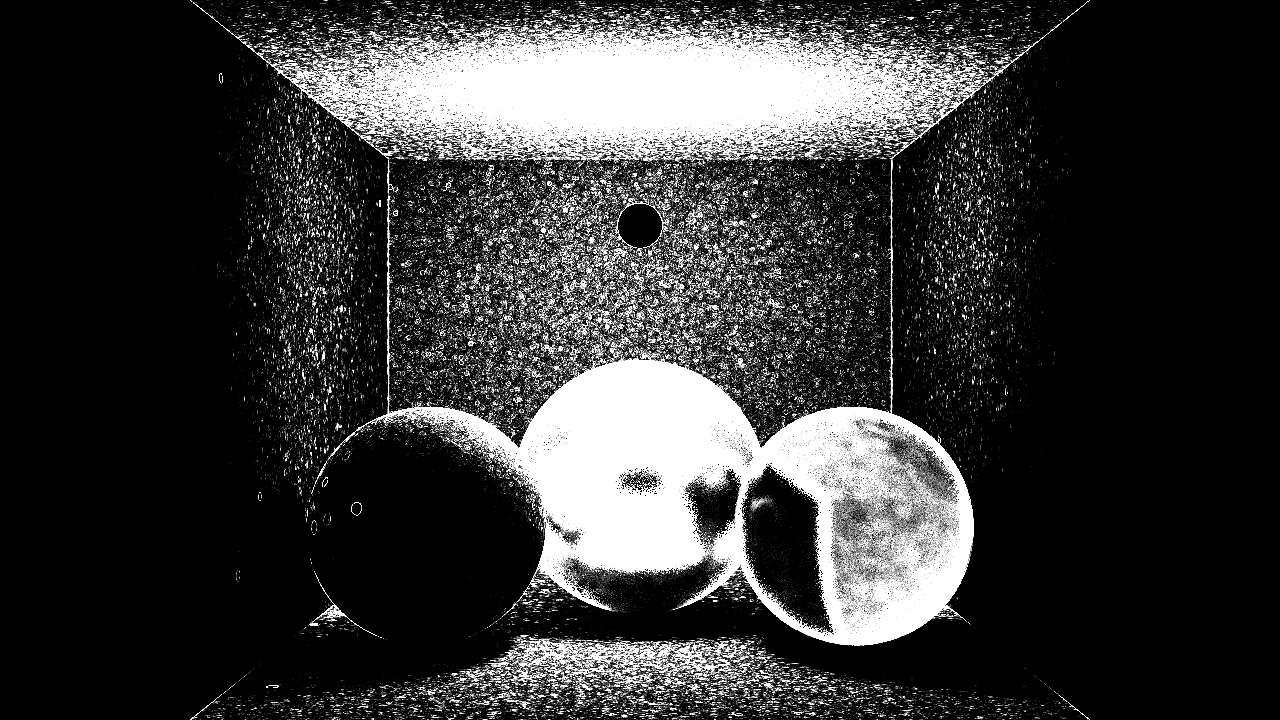
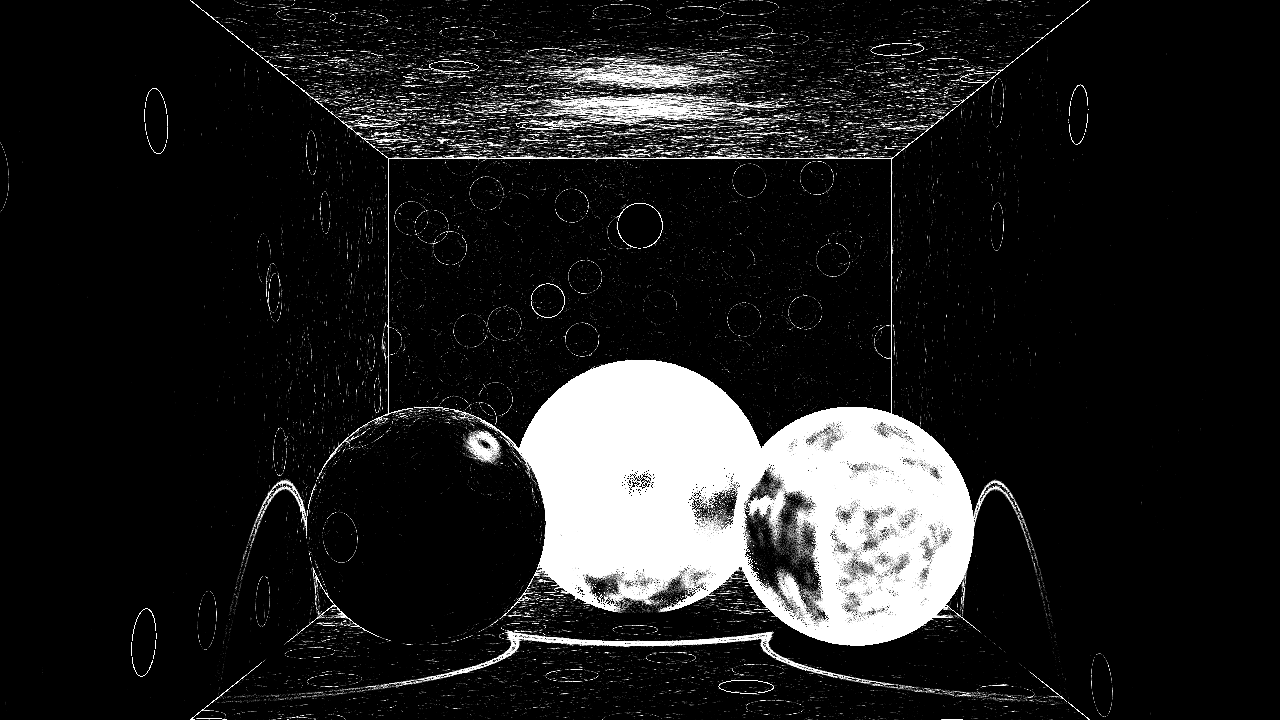
Apparently I added indirect illumination. Looks weird

Changed region(s): [[0.1562, 0.0, 0.8438, 1.0], [0.2188, 0.825, 0.2812, 0.9167]]

diff --git a/src/main.cpp b/src/main.cpp
@@ -263,7 +263,7 @@ int main()
 {
     renderer.LoadScene("../assets/scene.xml");
     PhotonMap photonMap{};
-    photonMap.Resize(10000);
+    photonMap.Resize(100000);
     renderer.SetPhotonMap(&photonMap);
 
     tileThreads::numTilesX = (renderer.GetCamera().imgWidth + tileThreads::tileSize - 1) / tileThreads::tileSize;
@@ -355,6 +355,55 @@ int main()
                         break;
                     }
                 }
+
+                photonRay.dir = newDir;
+                photonRay.p = hInfo.p;
+                c *= info.mult / info.prob;
+            }
+        }
+    }
+    else if (doingIndirectWithPhotonMapping)
+    {
+        const Light* light{ renderer.GetScene().lights[0] };
+        bool mapIsFull{ false };
+
+        while (!mapIsFull)
+        {
+            Ray photonRay;
+            Color c;
+            light->RandomPhoton(tileThreads::rng, photonRay, c);
+
+            bool firstHit{ true };
+
+            while (true)
+            {
+                photonRay.p += photonRay.dir * 0.0002f;
+                HitInfo hInfo{};
+                if (!renderer.TraceRay(photonRay, hInfo) || hInfo.light)
+                    break;
+
+                SamplerInfo sInfo{ tileThreads::rng };
+                sInfo.SetHit(photonRay, hInfo);
+
+                const Material* material{ hInfo.node->GetMaterial() };
+
+                DirSampler::Info info{};
+                Vec3f newDir{};
+                if (!material->GenerateSample(sInfo, newDir, info))
+                    break;
+
+                if (info.lobe == DirSampler::Lobe::DIFFUSE)
+                {
+                    if (!firstHit)
+                    {
+                        if (!photonMap.AddPhoton(hInfo.p, photonRay.dir, c))
+                        {
+                            mapIsFull = true;
+                            break;
+                        }
+                    }
+                }
+                firstHit = false;
 
                 photonRay.dir = newDir;
                 photonRay.p = hInfo.p;

diff --git a/src/materials.cpp b/src/materials.cpp
@@ -29,7 +29,7 @@ Color MtlBlinn::Shade(ShadeInfo const &shadeInfo) const
         {
             Color lightIntensity;
             Vec3f lightDir;
-            renderer.GetPhotonMap()->EstimateIrradiance<100>(lightIntensity, lightDir, 1.0f, shadeInfo.P(), normal, 1.0f);
+            renderer.GetPhotonMap()->EstimateIrradiance<128>(lightIntensity, lightDir, 1.0f, shadeInfo.P(), normal, 1.0f);
 
             if (IsPhotonSurface())
                 finalColor += (1.0f / M_PI) * diffuseColor * lightIntensity;
@@ -70,10 +70,29 @@ Color MtlBlinn::Shade(ShadeInfo const &shadeInfo) const
     if (!shadeInfo.CanBounce())
         return finalColor;
 
-    // Monte Carlo global illumination
     if (!(doingDirectWithPhotonMapping && doingIndirectWithPhotonMapping))
     {
-        if (diffuseColor.Sum() > 0.0f && shadeInfo.CurrentBounce() < 2)
+        if (doingIndirectWithPhotonMapping)
+        {
+            if (IsPhotonSurface() || specular.GetValue().Sum() > 0.0f)
+            {
+                Color lightIntensity;
+                Vec3f lightDir;
+                renderer.GetPhotonMap()->EstimateIrradiance<100>(lightIntensity, lightDir, 1.0f, shadeInfo.P(), normal, 1.0f);
+
+                if (IsPhotonSurface())
+                    finalColor += (1.0f / M_PI) * diffuseColor * lightIntensity;
+
+                if (specular.GetValue().Sum() > 0.0f)
+                {
+                    const Vec3f halfway{ (shadeInfo.V() + lightDir).GetNormalized() };
+                    const float blinnTerm{ std::max(0.0f, normal.Dot(halfway)) };
+                    finalColor += ((glossiness.GetValue() + 2) / (8.0f * M_PI)) * specular.GetValue() * pow(blinnTerm, glossiness.GetValue()) * lightIntensity;
+                }
+            }
+        }
+        // Monte Carlo global illumination
+        else if (diffuseColor.Sum() > 0.0f && shadeInfo.CurrentBounce() < 2)
         {
             const float phiOffset{ shadeInfo.RandomFloat() };
             const float thetaOffset{ shadeInfo.RandomFloat() };

diff --git a/src/renderer.cpp b/src/renderer.cpp
@@ -1,5 +1,5 @@
 #include "renderer.h"
 
 Renderer renderer;
-const bool doingDirectWithPhotonMapping{ true };
+const bool doingDirectWithPhotonMapping{ false };
 const bool doingIndirectWithPhotonMapping{ true };
